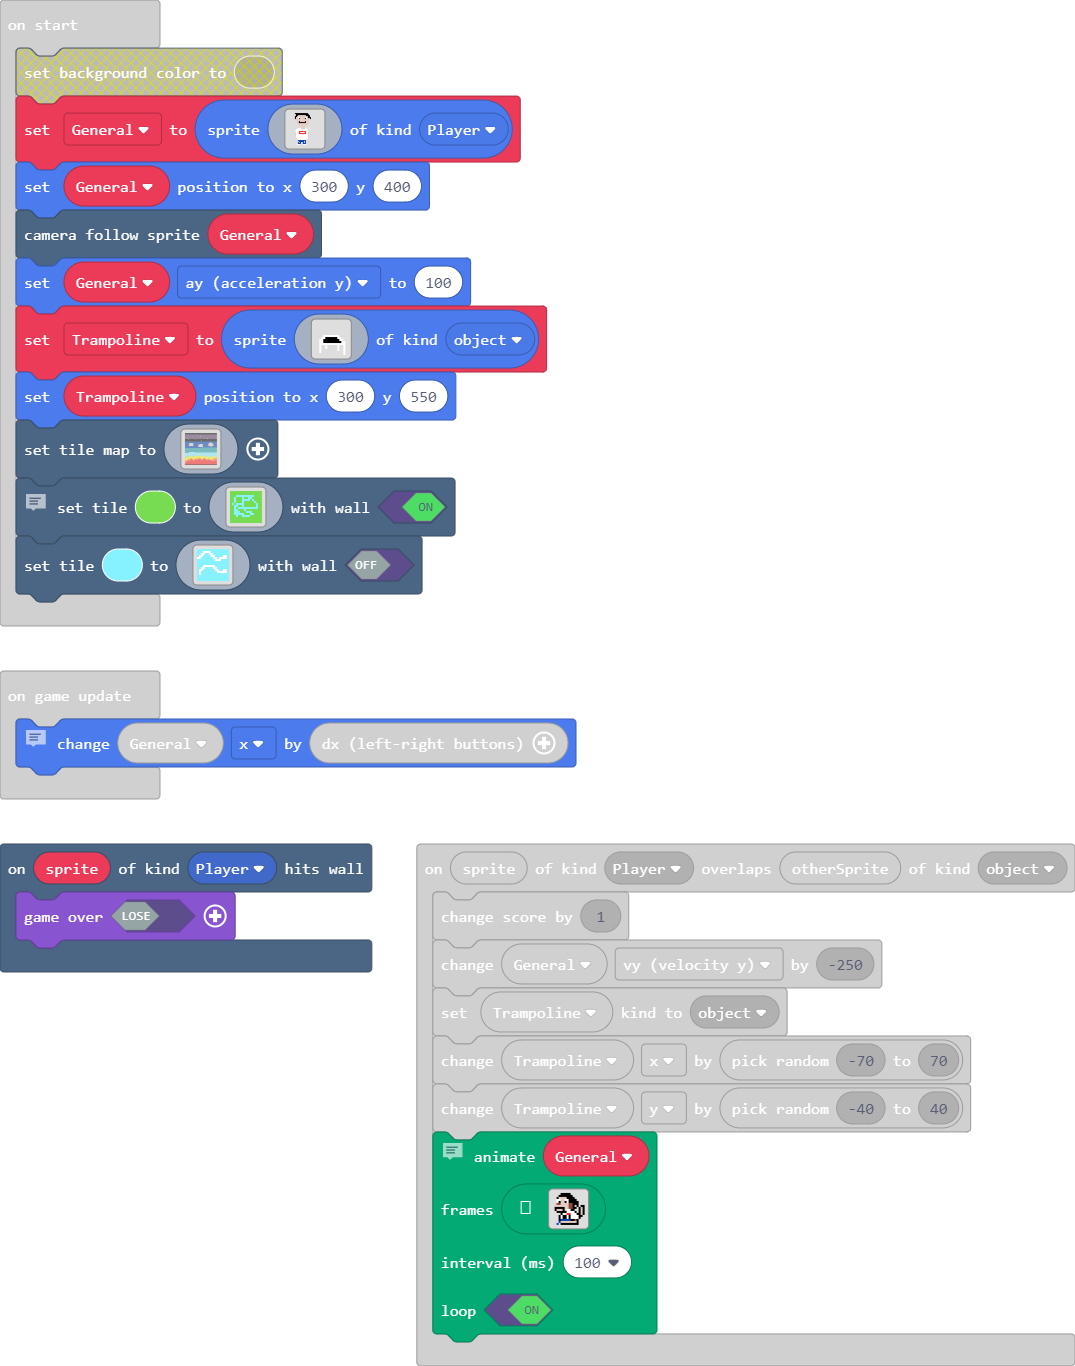
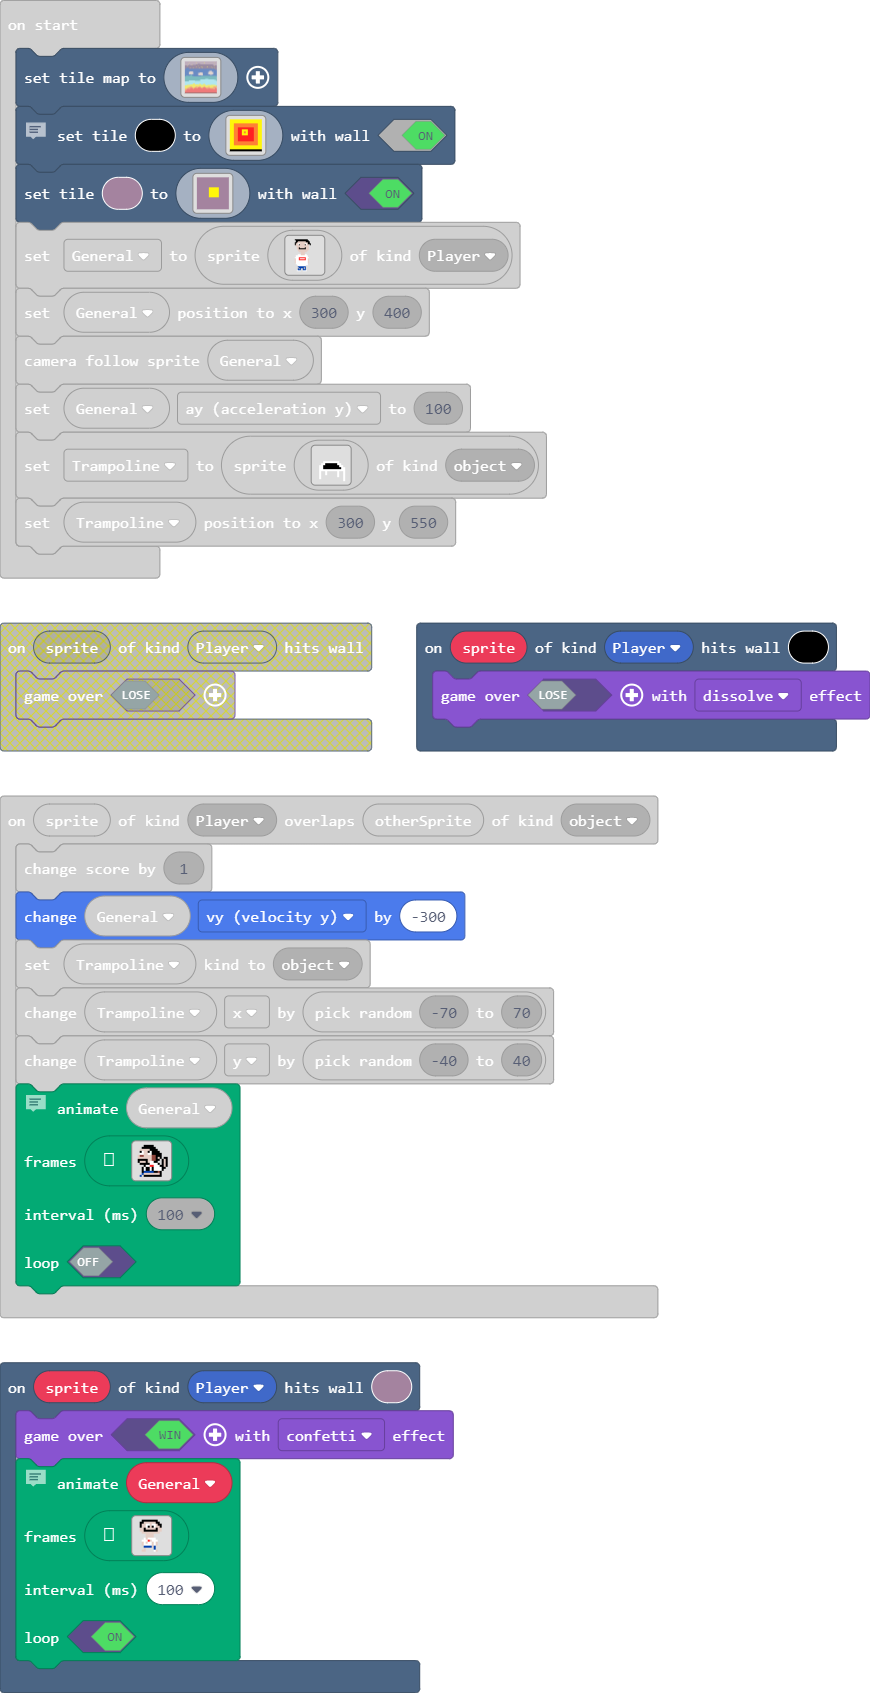
Update main.blocks, main.ts

diff --git a/main.ts b/main.ts
@@ -79,12 +79,39 @@ namespace myTiles {
 . . . . . . . . . . . . . . . . 
 `
 }
-scene.onHitWall(SpriteKind.Player, function (sprite) {
-    game.over(false)
+scene.onHitTile(SpriteKind.Player, 11, function (sprite) {
+    game.over(true, effects.confetti)
+    // Transforms first sprite image into different image.
+    animation.runImageAnimation(
+    General,
+    [img`
+. . . f f f f f f f f . . . . . 
+. . f f d d d d d d f f . . . . 
+. . f d d 1 1 d 1 1 d f f . . . 
+. . f d d 1 f d f 1 d d f . . . 
+. . d d f d d d d d f d d . . . 
+. . d d f f f f f f f d d . . . 
+. . . d d d d d d d d d . . . . 
+. . . . . d d d d . . . . . . . 
+. . . . . d d d d . . . . . . . 
+. . . . 1 d 1 1 1 1 . . . . . . 
+. . . 1 1 1 2 d 1 1 1 . . . . . 
+. . . d 1 d 1 1 d 1 d . . . . . 
+. . . d 1 1 1 1 d 1 d . . . . . 
+. . . . 8 8 8 8 d 8 . . . . . . 
+. . . . d . . . . 8 . . . . . . 
+. . . d d . . . . 1 d . . . . . 
+`],
+    100,
+    true
+    )
+})
+scene.onHitTile(SpriteKind.Player, 15, function (sprite) {
+    game.over(false, effects.dissolve)
 })
 sprites.onOverlap(SpriteKind.Player, SpriteKind.object, function (sprite, otherSprite) {
     info.changeScoreBy(1)
-    General.vy += -250
+    General.vy += -300
     Trampoline.setKind(SpriteKind.object)
     Trampoline.x += Math.randomRange(-70, 70)
     Trampoline.y += Math.randomRange(-40, 40)
@@ -94,9 +121,9 @@ sprites.onOverlap(SpriteKind.Player, SpriteKind.object, function (sprite, otherS
     [img`
 . . . . f f f f f . . . . . . . 
 . . . f f f f f f f . . . . . . 
-. . f d d d d f f f f . . . . . 
-. . 1 1 d d 1 1 f f f f . . . . 
-. . 1 f d d f 1 f f f f f . . . 
+. . d d d d d f f f f . . . . . 
+. . f 1 d d f 1 f f f f . . . . 
+. . 1 1 d d 1 1 f f f f f . . . 
 . d e e d d d d e e f f f . . . 
 . d d d d d d d e e f d f . f f 
 . f f f f f d d e e f f . f d f 
@@ -110,29 +137,29 @@ sprites.onOverlap(SpriteKind.Player, SpriteKind.object, function (sprite, otherS
 . . 8 . f f f f f f f f f . . . 
 `],
     100,
-    true
+    false
     )
 })
 let Trampoline: Sprite = null
 let General: Sprite = null
 scene.setTileMap(img`
-f f f f f f f f f f f f f f f f f f f f f f f f f f f f f f f f f f f f f f f f f f f f f f f f f f f f f f f f f f f f f f f f 
-f f f f f f f f f f f f f f f f f f f f f f f f f f f f f f f f f f f f f f f f f f f f f f f f f f f f f f f f f f f f f f f f 
-f f f f f f f f f f f f f f f f f f f f f f f f f f f f f f f f f f f f f f f f f f f f f f f f f f f f f f f f f f f f f f f f 
+b b b b b b b b b b b b b b b b b b b b b b b b b b b b b b b b b b b b b b b b b b b b b b b b b b b b b b b b b b b b b b b b 
+b b b b b b b b b b b b b b b b b b b b b b b b b b b b b b b b b b b b b b b b b b b b b b b b b b b b b b b b b b b b b b b b 
+b b b b b b b b b b b b b b b b b b b b b b b b b b b b b b b b b b b b b b b 5 b b b b b b b b b b b b b b b b b b 5 b b b b b 
+b b b b b b b b 5 b b b b b b b b b b b b b b 5 b b b b b b b b b b b b b b 5 b b b b b b b b b b b b b b b b b b b b b b b b b 
+b b b b b b b b b b b b b b b b b b b b b b b b b b b b b b b b b b b b b b b b b b b b b b b b b b b b b b b b b b b b b b b b 
+b b b b b b 5 b b b b b b b b b b b b b b b b b b b c c c c c b b b b b b b b b b b b b b b b b b b b b b b b b b b b b b b b b 
+b b b b b b b b b b b b b b b 5 b b b b b b c c c c c c c c c c c c c c c c c c c c c c c c c c c c c c c c c c c b b b b b b b 
+b b b b b b b b c c c b b b b c c c c c c c c c c c c c c c c c c c c c c c c c c c c c c c c c c c c c c c c c c b b b b b b b 
+c c c c c c c c c c c c c c c c c c c c c c c c c c 5 c c c c c c c c c c c c c c c c c c c c c c c c c c c c c c c c c c c c c 
+c c c c c 5 c c c c c c c c c c c c c c c c c c c c c c c c c c c c c c c c c c c c c c c c c c c c c c c c c c c c c 5 c c c c 
 c c c c c c c c c c c c c c c c c c c c c c c c c c c c c c c c c c c c c c c c c c c c c c c c c c c c c c c c c c c c c c c c 
-c c c c c c c 5 c c c c c c c c c c c c c c 5 c c c c c c c c c c c c c c c c c c c c c c c c c c c c c c c c c c c c c c c c c 
-c c c c c c c c c c c c c c c c c c c c c c c c c c c c c c c c c c c c c c c c c c c c c c c c c c c 5 c c c c c c c c c c c c 
-c c c c c c c c c c c c c c c c c c c c c c c c c c c c c c c c c c c c c c 5 c c c c c c c c c c c c c c c c c c c c c c c c c 
-c c c c c c c c c c c c c c 5 c c c c c c c c c c c c c c c 5 5 c c c c c c c c c c c c c c c c c c c c c c c c c c c c c c c c 
-c c c c c c c c c c c c c c c c c c c c c c c c c c c c c c c c c c c c c c c c c c c c c c c c c c c c c c c c c c c c c c c c 
-c c c c c 5 c c c c c c c c c c c c c c c c c c c c c c c c c c c c c c c c c c c c c c c c c c c c c c c c c c c c c c c c c c 
-c c c c c c c c c c c c c c c c c c c c c c c c c c c c c c c c c c c c c c c c c c c c c c c c c c c c c c c c c c c c c c c c 
-c c c c c c c c c c c c c c c c c c c c c c c c c c c c c c c c c c c c c c c c c c c c 5 5 c c c c c c c c c c c c c c c c c c 
-f f f f f f f 5 f f f f f f f f f f f f 5 f f f f f f f f f f f f f f f f f f f f f f f f f f f f f f f f f f f f f f f f f f f 
-f f f f f f f f f f f f f f f f f f f f f f f f f f f f f f f f f f f f f f f f f f f f f f f f f f f f f f f f f f f f f f f f 
-f f f f f f f f f f f f f f f f f f f f f f f f f f f f f f f f f f f f f f f f f f f f f f f f f f f f f f f f f f f f f f f f 
-f f f f f f f f f f f f f f f f f f f f f f f f f f f f f f f f f 5 f f f f f f f f f f f f f f f f f f f f f f f f f f f f f f 
-f f f f f f f f f f f f f f f f f f f f f f f f f f f f f f f f f f f f f f f f f f f f f f f f f f f f f f f f f f f f f f f f 
+c c c c c c c c c c c c c c c c c c c c c c c 5 c c c c c c c c c 5 5 c c c c c c c c c 5 5 c c c c c c 5 c c c c c c c c c c c 
+c c c c c c c c c c c c c c c c c 5 c c c c c c c c c c c c c c c c c 5 c c c c c c c c c c c c c c c c c c c c c c c c c c c c 
+c c c 8 8 8 8 8 c c 5 c c c c c c c c c c c c c c c c c c 5 c c c c c c c c c c c c c c c c c c c c c c c c 5 c c c 5 c c c c c 
+c c 8 8 8 8 8 8 c c c c c c c c c c c c c c c c c c c c c c c c c c c c c c c c c c c c c c c c c c c c c c c c c c c c c c c c 
+c 8 8 8 8 8 8 8 8 8 8 8 8 8 8 8 8 8 8 8 8 8 8 8 8 8 8 8 8 8 8 8 8 8 8 8 8 8 8 8 8 8 8 8 8 8 8 8 8 8 8 8 8 8 8 8 8 8 8 8 c c c c 
+c 8 8 8 8 8 8 8 8 8 8 8 8 8 8 8 8 8 8 8 8 8 8 8 8 8 8 8 8 8 8 8 8 8 8 8 8 8 8 8 8 8 8 8 8 8 8 8 8 8 8 8 8 8 8 8 8 8 8 8 c c c c 
 8 8 8 8 8 8 8 8 8 8 8 8 8 8 8 8 8 8 8 8 8 8 8 8 8 8 8 8 8 8 8 8 8 8 8 8 8 8 8 8 8 8 8 8 8 8 8 8 8 8 8 8 8 8 8 8 8 8 8 8 8 8 8 8 
 8 8 8 8 8 8 8 8 8 8 8 8 8 8 8 8 8 8 8 8 8 8 8 8 8 8 8 8 8 8 8 8 8 8 8 8 8 8 8 8 8 8 8 8 8 8 8 8 8 8 8 8 8 8 8 8 8 8 8 8 8 8 8 8 
 8 8 8 8 8 8 8 8 8 8 8 8 8 8 8 8 8 8 8 8 8 8 8 8 8 8 8 8 8 8 8 8 8 8 8 8 8 8 8 8 8 8 8 8 8 8 8 8 8 d d d d d 8 8 8 8 8 8 8 8 8 8 
@@ -142,30 +169,30 @@ f f f f f f f f f f f f f f f f f f f f f f f f f f f f f f f f f f f f f f f f 
 8 8 8 8 8 8 8 8 d d d d d d d d d 8 8 8 8 8 8 8 8 8 8 d d d d d d d d d 8 8 8 8 8 8 8 8 8 8 8 d d d d d d d d d d 8 8 8 8 8 8 8 
 8 8 8 8 8 8 8 8 d d d d d d d d d 8 8 8 8 8 8 8 8 8 8 d d d d d d d d d 8 8 8 8 8 8 8 8 8 8 8 d d d d d d d d d d 8 8 8 8 8 8 8 
 8 8 8 8 8 8 8 8 d d d d d d d d d 8 8 8 8 8 8 8 8 8 8 d d d d d d d d d 8 8 8 8 8 8 8 8 8 8 8 d d d d d d d d d d 8 8 8 8 8 8 8 
-8 8 8 8 8 8 8 8 8 8 8 8 8 8 8 8 8 8 8 8 8 8 8 8 8 8 8 d d d d d d d d d 8 8 8 8 8 8 8 8 8 8 8 8 8 8 d d d d d 8 8 8 8 8 8 8 8 8 
-8 8 8 8 8 8 8 8 8 8 8 8 8 8 8 8 8 8 8 8 8 8 8 8 8 8 8 d d d d d d d d d 8 8 8 8 8 8 8 8 8 8 8 8 8 8 8 8 8 8 8 8 8 8 8 8 8 8 8 8 
-8 8 8 8 8 8 8 8 8 8 8 8 8 8 8 8 8 8 8 8 8 8 8 8 8 8 8 8 8 8 8 8 8 8 8 8 8 8 8 8 8 8 8 8 8 8 8 8 8 8 8 8 8 8 8 8 8 8 8 8 8 8 8 8 
-8 8 8 8 8 8 8 8 8 8 8 8 8 8 8 8 8 8 8 8 8 8 8 8 8 8 8 8 8 8 8 8 6 6 6 6 6 6 6 6 6 6 6 6 6 6 6 6 6 6 6 6 6 6 6 6 6 6 6 6 6 6 6 8 
+8 8 8 8 8 8 8 8 8 8 8 8 8 6 8 8 8 8 8 8 8 8 8 8 8 8 8 d d d d d d d d d 8 8 8 8 8 8 8 8 8 8 8 8 8 8 d d d d d 8 8 8 8 8 8 8 8 8 
+8 8 8 8 8 8 8 8 8 8 8 8 6 6 8 8 8 8 8 8 8 8 8 8 8 8 8 d d d d d d d d d 8 8 8 8 8 8 8 8 8 8 8 8 8 8 8 8 8 8 8 8 8 8 8 8 8 8 8 8 
+8 8 8 6 6 8 8 8 8 8 6 6 6 6 8 8 8 8 8 8 8 8 8 8 8 8 8 8 8 8 8 8 8 8 8 8 8 8 8 8 8 8 8 8 8 8 8 8 8 8 8 8 8 8 8 8 8 8 8 8 8 8 8 8 
+8 8 8 6 6 6 6 6 6 6 6 6 6 6 6 6 6 8 8 8 8 8 8 8 8 8 8 8 8 8 8 8 6 6 6 6 6 6 6 6 6 6 6 6 6 6 6 6 6 6 6 6 6 6 6 6 6 6 6 6 6 6 6 8 
 6 6 6 6 6 6 6 6 6 6 6 6 6 6 6 6 6 6 6 6 6 6 6 6 6 6 6 6 6 6 6 6 6 6 6 6 6 6 6 6 6 6 6 6 6 6 6 6 6 6 6 6 6 6 6 6 6 6 6 6 6 6 6 6 
 6 6 6 6 6 6 6 6 6 6 6 6 6 6 6 6 6 6 6 6 6 6 6 6 6 6 6 6 6 6 6 6 6 6 6 6 6 6 6 6 6 6 6 6 6 6 6 6 6 6 6 6 6 6 6 6 6 6 6 6 6 6 6 6 
 6 6 6 6 6 6 6 6 6 6 6 6 6 6 6 6 6 6 6 6 6 6 6 6 6 6 6 6 6 6 6 6 6 6 6 6 6 6 6 6 6 6 6 6 6 6 6 6 6 6 6 6 6 6 6 6 6 6 6 6 6 6 6 6 
 6 6 6 6 6 6 6 6 6 6 6 6 6 6 6 6 6 6 6 6 6 6 6 6 6 6 6 6 6 6 6 6 6 6 6 6 6 6 6 6 6 6 6 6 6 6 6 6 6 6 6 6 6 6 6 6 6 6 6 6 6 6 6 6 
 6 6 6 6 6 6 6 6 6 6 6 6 6 6 6 6 6 6 6 6 6 6 6 6 6 6 6 6 6 6 6 6 6 6 6 6 6 6 6 6 6 6 6 6 6 6 6 6 6 6 6 6 6 6 6 6 6 6 6 6 6 6 6 6 
-6 6 6 6 6 6 6 6 6 6 6 6 6 6 6 6 6 6 6 6 6 6 6 6 6 6 6 6 6 6 6 6 6 6 6 6 6 6 6 6 6 6 6 6 6 6 6 6 6 6 6 6 6 6 6 6 6 6 6 6 6 6 6 6 
-6 6 6 6 6 6 6 6 6 6 6 6 6 6 6 6 6 6 6 6 6 6 6 6 6 6 6 6 6 6 6 6 6 6 6 6 6 6 6 6 6 6 6 6 6 6 6 6 6 6 6 6 6 6 6 6 6 6 6 6 6 6 6 6 
-6 6 6 6 6 6 6 6 6 6 6 6 6 6 6 6 6 6 6 6 6 6 6 6 6 6 6 6 6 6 6 6 6 6 6 6 6 6 6 6 6 6 6 6 6 6 6 6 6 6 6 6 6 6 6 6 6 6 6 6 6 6 6 6 
-6 6 6 6 6 6 6 6 9 9 9 9 9 9 9 9 9 9 9 9 6 6 6 6 6 6 6 6 6 6 6 6 6 6 6 6 6 6 6 6 6 6 6 6 6 6 6 6 6 6 6 6 6 6 6 6 6 6 6 6 6 6 6 6 
+6 6 6 6 6 6 6 6 6 6 6 6 6 6 6 6 6 6 6 6 6 6 6 6 6 6 6 6 6 6 6 6 6 6 6 6 6 6 6 6 6 9 9 9 9 9 9 6 6 6 6 6 6 6 6 6 6 6 6 6 6 6 6 6 
+6 6 6 6 6 6 6 6 6 6 6 6 6 6 6 6 6 6 6 6 6 6 6 6 6 6 6 6 6 6 6 9 9 9 9 9 9 9 9 9 9 9 9 9 9 9 9 9 9 9 9 9 9 9 9 9 9 9 9 6 6 6 6 6 
+6 6 6 6 6 6 6 6 6 6 6 6 6 6 6 6 6 6 6 6 6 6 6 6 6 6 6 6 6 6 6 9 9 9 9 9 9 9 9 9 9 9 9 9 9 9 9 9 9 9 9 9 9 9 9 9 9 9 9 9 9 9 6 6 
+6 6 6 6 6 6 6 6 9 9 9 9 9 9 9 9 9 9 9 9 6 6 6 6 6 6 6 6 6 6 6 9 9 9 9 9 9 9 9 9 9 9 9 9 9 9 9 9 9 9 9 9 9 9 9 9 9 9 9 9 9 9 6 6 
 6 6 6 6 6 6 6 6 9 9 9 9 9 9 9 9 9 9 9 9 9 9 9 9 9 9 9 9 9 9 9 9 9 9 9 9 9 9 9 9 9 9 9 9 9 9 9 9 9 9 9 9 9 9 9 9 9 9 9 9 9 9 9 9 
 9 9 9 9 9 9 9 9 9 9 9 9 9 9 9 9 9 9 9 9 9 9 9 9 9 9 9 9 9 9 9 9 9 9 9 9 9 9 9 9 9 9 9 9 9 9 9 9 9 9 9 9 9 9 9 9 9 9 9 9 9 9 9 9 
 9 9 9 9 9 9 9 9 9 9 9 9 9 9 9 9 9 9 9 9 9 9 9 9 9 9 9 9 9 9 9 9 9 9 9 9 9 9 9 9 9 9 9 9 9 9 9 9 9 9 9 9 9 9 9 9 9 9 9 9 9 9 9 9 
 9 9 9 9 9 9 9 9 9 9 9 9 9 9 9 9 9 9 9 9 9 9 9 9 9 9 9 9 9 9 9 9 9 9 9 9 9 9 9 9 9 9 9 9 9 9 9 9 9 9 9 9 9 9 9 9 9 9 9 9 9 9 9 9 
 9 9 9 9 9 9 9 9 9 9 9 9 9 9 9 9 9 9 9 9 9 9 9 9 9 9 9 9 9 9 9 9 9 9 9 9 9 9 9 9 9 9 9 9 9 9 9 9 9 9 9 9 9 9 9 9 9 9 9 9 9 9 9 9 
-9 9 9 9 9 9 9 9 9 9 9 9 9 9 9 9 9 9 9 9 9 9 9 9 9 9 9 9 9 9 9 9 9 9 9 9 9 9 9 9 9 9 9 9 9 9 9 9 9 9 9 9 9 9 9 9 9 9 9 9 9 9 9 9 
-9 9 9 9 9 9 9 9 9 9 9 9 9 9 9 9 9 9 9 9 9 9 9 9 9 9 9 9 5 5 5 5 9 9 9 9 9 5 5 5 9 9 9 9 9 9 9 9 9 9 9 9 9 9 9 9 9 9 9 9 9 9 9 9 
-9 9 9 9 9 9 9 9 9 9 9 5 5 5 5 9 9 9 9 9 5 5 5 5 5 5 9 5 5 5 5 5 5 9 9 9 5 5 5 5 5 9 9 9 9 9 9 9 9 9 9 9 9 9 9 9 9 9 9 9 9 9 9 9 
-9 9 9 9 7 7 7 7 5 5 5 5 5 5 5 5 7 7 7 5 5 5 5 5 5 5 5 5 5 5 5 5 5 5 7 5 5 5 5 5 5 5 9 9 9 5 5 5 5 5 5 9 5 5 5 5 5 5 5 5 5 9 9 9 
-7 7 5 5 5 5 5 5 5 5 5 5 5 5 5 5 5 7 5 5 5 5 5 5 5 5 5 5 5 5 5 5 5 5 5 5 5 5 5 5 5 5 5 5 5 5 5 5 5 5 5 5 5 5 5 5 5 5 5 5 5 5 5 7 
-7 5 5 5 5 5 5 5 5 5 5 5 5 5 5 5 5 5 5 5 5 5 5 5 5 5 5 5 5 4 5 5 5 5 5 5 5 5 4 5 5 5 5 5 5 5 5 5 5 5 5 5 5 5 5 5 5 5 5 5 5 5 5 4 
+9 9 9 9 9 9 9 9 9 9 9 9 9 9 9 9 9 5 5 5 9 9 9 9 9 9 9 9 9 9 9 9 9 9 9 9 9 9 9 9 9 9 9 9 9 9 9 9 9 9 9 9 9 9 9 9 9 9 9 9 9 9 9 9 
+9 9 9 9 9 9 9 9 9 9 9 9 9 9 9 9 5 5 5 5 9 9 9 9 9 9 9 9 5 5 5 5 9 9 9 9 9 5 5 5 9 9 9 9 9 9 9 9 9 9 9 9 9 9 9 9 9 9 9 9 9 9 9 9 
+9 9 9 9 9 9 9 9 9 9 9 5 5 5 5 5 5 5 5 5 5 5 5 5 5 5 9 5 5 5 5 5 5 9 9 9 5 5 5 5 5 9 9 9 9 9 9 9 9 9 9 9 9 9 9 9 9 9 9 9 9 9 9 9 
+9 9 9 9 5 5 5 5 5 5 5 5 5 5 5 5 5 5 5 5 5 5 5 5 5 5 5 5 5 5 5 5 5 5 5 5 5 5 5 5 5 5 9 9 9 5 5 5 5 5 5 9 5 5 5 5 5 5 5 5 5 9 9 9 
+5 5 5 5 5 5 5 5 5 5 5 5 5 5 5 5 5 5 5 5 5 5 5 5 5 5 5 5 5 5 5 5 5 5 5 5 5 5 5 5 5 5 5 5 5 5 5 5 5 5 5 5 5 5 5 5 5 5 5 5 5 5 5 7 
+5 5 5 5 5 5 5 5 5 5 5 5 5 5 5 5 5 5 5 5 5 5 5 5 5 5 5 5 5 4 5 5 5 5 5 5 5 5 4 5 5 5 5 5 5 5 5 5 5 5 5 5 5 5 5 5 5 5 5 5 5 5 5 4 
 5 5 5 5 5 5 5 5 5 5 5 4 4 4 5 5 5 5 5 5 5 5 4 4 5 5 5 5 4 4 4 4 5 5 5 5 5 5 4 4 5 5 5 5 5 5 5 5 5 5 5 5 5 5 5 5 5 4 4 4 4 5 5 4 
 5 5 5 5 5 5 5 5 5 4 4 4 4 4 4 5 5 5 5 5 5 4 4 4 4 4 4 4 4 4 4 4 5 5 5 5 5 4 4 4 4 5 5 5 5 5 4 4 4 4 5 5 5 5 5 5 5 4 4 4 4 4 4 4 
 5 5 5 5 5 5 5 4 4 4 4 4 4 4 4 4 5 5 5 5 4 4 4 4 4 4 2 2 2 2 2 4 4 4 4 4 4 2 2 2 2 4 4 4 4 4 4 4 4 4 5 5 5 5 5 5 5 4 4 4 4 4 4 4 
@@ -187,42 +214,42 @@ f f f f f f f f f f f f f f f f f f f f f f f f f f f f f f f f f f f f f f f f 
 // Add extra detail
 //
 // Add extra Adds detail to tiles
-scene.setTile(7, img`
-7 7 7 7 7 7 7 7 7 7 7 7 7 7 7 7 
-7 7 7 7 7 7 7 7 7 7 7 7 7 7 7 7 
-7 7 7 9 9 9 9 9 9 9 9 9 7 7 7 7 
-7 7 9 7 7 7 9 7 7 9 9 7 7 7 7 7 
-7 7 9 7 7 7 9 9 9 9 7 9 7 7 7 7 
-7 7 9 7 7 7 9 7 7 7 7 7 9 7 7 7 
-7 9 7 9 9 9 9 7 7 7 7 7 7 9 7 7 
-7 7 9 9 7 7 9 7 7 7 7 7 7 9 7 7 
-7 7 9 7 9 9 9 9 9 9 9 9 9 9 7 7 
-7 7 9 9 7 7 7 9 7 7 7 7 7 7 7 7 
-7 7 9 9 9 7 7 7 9 9 9 7 7 7 7 7 
-7 7 9 9 9 9 9 7 7 7 9 9 7 7 7 7 
-7 7 7 9 7 7 9 9 9 9 7 7 7 7 7 7 
-7 7 7 7 7 7 7 7 7 7 7 7 7 7 7 7 
-7 7 7 7 7 7 7 7 7 7 7 7 7 7 7 7 
-7 7 7 7 7 7 7 7 7 7 7 7 7 7 7 7 
+scene.setTile(15, img`
+5 5 5 5 5 5 5 5 5 5 5 5 5 5 5 5 
+5 5 5 5 5 5 5 5 5 5 5 5 5 5 5 5 
+5 5 4 4 4 4 4 4 4 4 4 4 4 4 5 5 
+5 5 4 4 4 4 4 4 4 4 4 4 4 4 5 5 
+5 5 4 4 2 2 2 2 2 2 2 2 4 4 5 5 
+5 5 4 4 2 2 5 5 5 2 2 2 4 4 5 5 
+5 5 4 4 2 2 5 4 5 2 2 2 4 4 5 5 
+5 5 4 4 2 2 5 5 5 2 2 2 4 4 5 5 
+5 5 4 4 2 2 2 2 2 2 2 2 4 4 5 5 
+5 5 4 4 2 2 2 2 2 2 2 2 4 4 5 5 
+5 5 4 4 2 2 2 2 2 2 2 2 4 4 5 5 
+5 5 4 4 4 4 4 4 4 4 4 4 4 4 5 5 
+5 5 4 4 4 4 4 4 4 4 4 4 4 4 5 5 
+5 5 5 5 5 5 5 5 5 5 5 5 5 5 5 5 
+5 5 5 5 5 5 5 5 5 5 5 5 5 5 5 5 
+f f f f f f f f f f f f f f f f 
 `, true)
-scene.setTile(9, img`
-9 9 9 9 9 9 9 9 9 9 9 9 9 9 9 9 
-9 9 9 1 1 1 1 9 9 9 9 9 9 9 9 9 
-9 9 1 1 9 9 1 1 9 9 9 9 9 9 9 9 
-9 1 1 9 9 9 9 1 1 9 9 9 9 1 1 9 
-1 1 9 9 9 9 9 9 1 1 9 1 1 1 1 9 
-9 9 9 9 9 9 9 9 9 1 1 1 9 9 9 9 
-9 9 9 9 9 9 9 9 9 9 9 9 9 9 9 9 
-9 9 9 9 9 9 9 9 9 9 9 9 9 9 9 9 
-9 9 9 1 1 1 1 1 1 9 9 9 9 9 9 9 
-9 9 1 1 9 9 9 9 1 1 9 9 9 9 9 9 
-9 1 1 9 9 9 9 9 9 1 1 9 9 1 1 9 
-9 1 9 9 9 9 9 9 9 9 1 1 1 1 1 9 
-9 1 9 9 9 9 9 9 9 9 9 9 9 9 9 9 
-9 9 9 9 9 9 9 9 9 9 9 9 9 9 9 9 
-9 9 9 9 9 9 9 9 9 9 9 9 9 9 9 9 
-9 9 9 9 9 9 9 9 9 9 9 9 9 9 9 9 
-`, false)
+scene.setTile(11, img`
+b b b b b b b b b b b b b b b b 
+b b b b b b b b b b b b b b b b 
+b b b b b b b b b b b b b b b b 
+b b b b b b b b b b b b b b b b 
+b b b b b b b b b b b b b b b b 
+b b b b b b 5 5 5 5 5 b b b b b 
+b b b b b b 5 5 5 5 5 b b b b b 
+b b b b b b 5 5 5 5 5 b b b b b 
+b b b b b b 5 5 5 5 5 b b b b b 
+b b b b b b 5 5 5 5 5 b b b b b 
+b b b b b b b b b b b b b b b b 
+b b b b b b b b b b b b b b b b 
+b b b b b b b b b b b b b b b b 
+b b b b b b b b b b b b b b b b 
+b b b b b b b b b b b b b b b b 
+b b b b b b b b b b b b b b b b 
+`, true)
 General = sprites.create(img`
 . . . . . . f f f f f f f f f f f f f . . . . . . . . . . . . . 
 . . . . . . . f f f f f f f f f f f f f . . . . . . . . . . . . 
